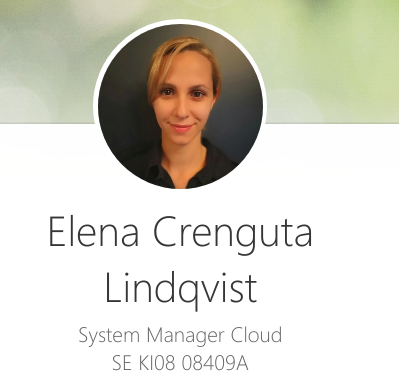
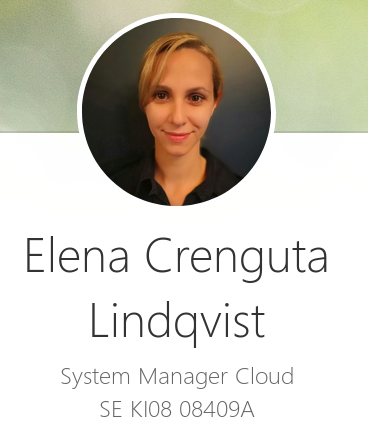
blä

diff --git a/itnot/index.html b/itnot/index.html
@@ -40,7 +40,7 @@ Hello everyone, trying quickly to assess my audience here today.
 				</section>
 <!--  Slide1 -->
 				<section>
-			        <img src="pics/ecl.png" width=25% height=25%></th>
+			        <img src="pics/ecl.png" width=35% height=35%></th>
 				    <aside class="notes">
 <p>So! Hello everyone, my name is Elena "I won't pronounce" Lindqvist and I am here to tell you about using smartNICs with OpenStack.</p>
 <p>I work at Ericsson as a systems manager. That's *systems* manager, so ... </p>
